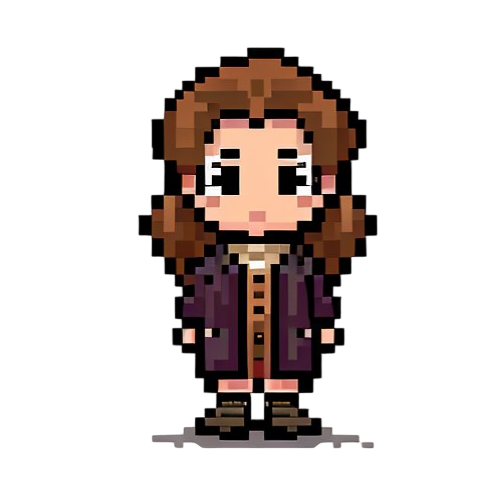
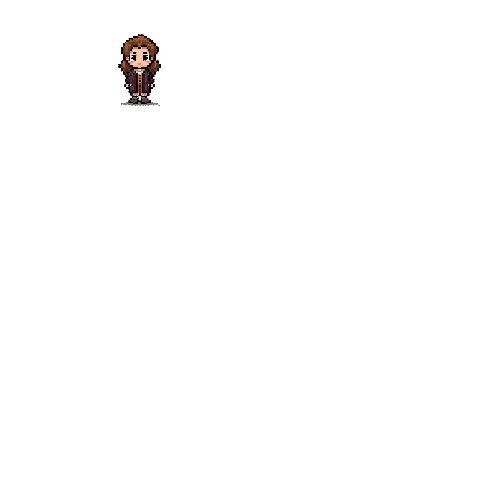
Add location and limit direction

Changed region(s): [[0.2439, 0.0611, 0.7927, 0.9165]]

diff --git a/game/game/Game1.cs b/game/game/Game1.cs
@@ -83,13 +83,15 @@ namespace game
 
     public class GameCycleView : Game, IGameplayView
     {
-        private GraphicsDeviceManager _graphics;
+        private static GraphicsDeviceManager _graphics;
         private SpriteBatch _spriteBatch;
 
         public event EventHandler CycleFinished = delegate { };
         public event EventHandler<ControlsEventArgs> PlayerMoved = delegate { };
 
         private Vector2 _playerPos = Vector2.Zero;
+        private Vector2 _classPos = Vector2.Zero;
+        private static Texture2D _classImage;
         private Texture2D _playerImage;
 
         public GameCycleView()
@@ -107,7 +109,8 @@ namespace game
         protected override void LoadContent()
         {
             _spriteBatch = new SpriteBatch(GraphicsDevice);
-            _playerImage = Content.Load<Texture2D>("Snape");
+            _classImage = Content.Load<Texture2D>("Класс");
+            _playerImage = Content.Load<Texture2D>("Игрок");
         }
 
         public void LoadGameCycleParameters(Vector2 pos)
@@ -118,6 +121,8 @@ namespace game
         protected override void Update(GameTime gameTime)
         {
             base.Update(gameTime);
+            LimitArea(_playerPos, _playerImage);
+
             var keys = Keyboard.GetState().GetPressedKeys();
             if (keys.Length > 0)
             {
@@ -178,11 +183,32 @@ namespace game
             CycleFinished.Invoke(this, new EventArgs());
         }
 
+        private static void LimitArea(Vector2 pos, Texture2D texture)
+        {
+            if (pos.X > _graphics.PreferredBackBufferWidth - texture.Width / 2)
+            {
+                pos.X = _graphics.PreferredBackBufferWidth - texture.Width / 2;
+            }
+            else if (pos.X < texture.Width / 2)
+            {
+                pos.X = texture.Width / 2;
+            }
+
+            if (pos.Y > _graphics.PreferredBackBufferHeight - texture.Height / 2)
+            {
+                pos.Y = _graphics.PreferredBackBufferHeight - texture.Height / 2;
+            }
+            else if (pos.Y < texture.Height / 2)
+            {
+                pos.Y = texture.Height / 2;
+            }
+        }
         protected override void Draw(GameTime gameTime)
         {
             GraphicsDevice.Clear(Color.CornflowerBlue);
 
             _spriteBatch.Begin();
+            _spriteBatch.Draw(_classImage, _classPos,Color.White);
             _spriteBatch.Draw(_playerImage, _playerPos, Color.White);
             _spriteBatch.End();
             base.Draw(gameTime);

diff --git a/game/Dp1/Dp1/Program.cs b/game/Dp1/Dp1/Program.cs
@@ -1,0 +1,27 @@
+using System;
+using System.Collections.Generic;
+
+namespace ConsoleApp1
+{
+    public class Program
+    {
+        public static int[] array = { -50, -150, 50, -10, 10, 20, -70 };
+
+        public static void Main()
+        {
+            Console.WriteLine(CountSum(array));
+        }
+
+        public static int CountSum(int[] arr)
+        {            
+            int maxSum = arr[0];
+            int currentSum = arr[0];
+            for (int i = 1; i < arr.Length; i++)
+            {
+                currentSum = Math.Max(arr[i], currentSum + arr[i]);
+                maxSum = Math.Max(maxSum, currentSum);
+            }
+            return maxSum;
+        }
+    }
+}

diff --git a/game/game/Menu.cs b/game/game/Menu.cs
@@ -1,0 +1,11 @@
+using System;
+using System.Collections.Generic;
+using System.Linq;
+using System.Text;
+
+namespace game
+{
+    internal class Menu
+    {
+    }
+}
